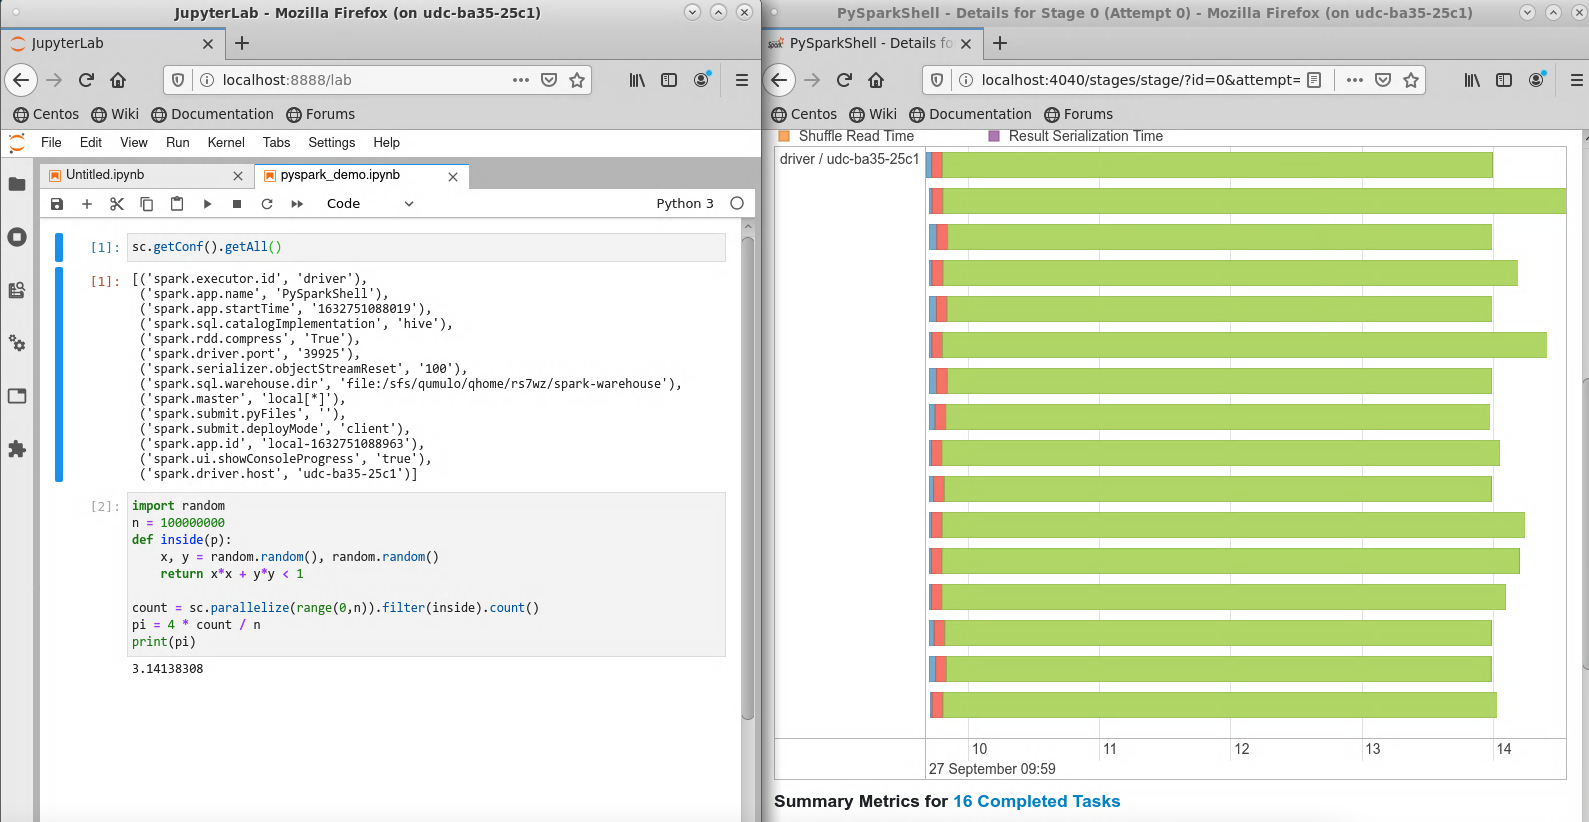
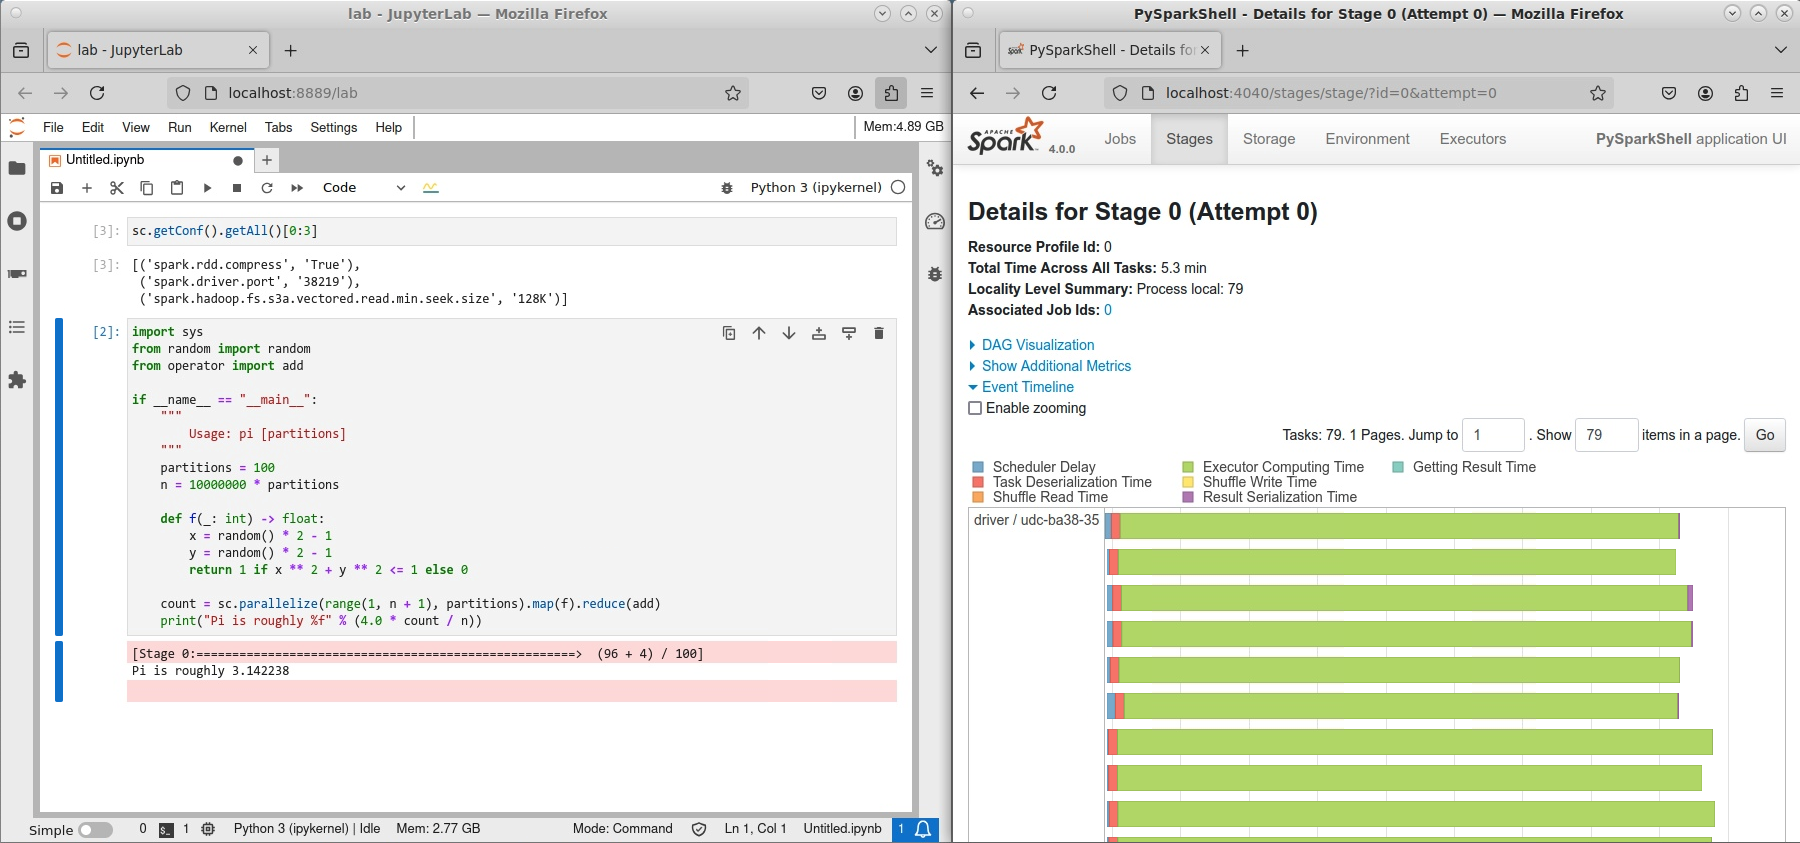
pyspark update docs

diff --git a/content/userinfo/hpc/software/spark.md b/content/userinfo/hpc/software/spark.md
@@ -4,7 +4,7 @@ categories = [
   "HPC",
   "software",
 ]
-date = "2025-07-14T00:00:00-05:00"
+date = "2025-07-18T00:00:00-05:00"
 tags = [
   "chem",
   "multi-core",
@@ -44,7 +44,7 @@ module spider {{% module-firstversion %}}
 
 There are three ways to use Spark interactively:
 1. Shell prompt
-1. Open OnDemand PySpark
+1. Open OnDemand JupyterLab PySpark kernel
 1. Open OnDemand Desktop
 
 If you need the Web UI you must use the third method (OOD Desktop).
@@ -85,9 +85,11 @@ package ‘SparkR’ was built under R version 4.1.0
 
 We recommend loading the closest available version.
 
-## Open OnDemand PySpark
+## Open OnDemand JupyterLab PySpark kernel
 
-Python users can run Spark in a JupyterLab interface via the PySpark Interactive App on [Open OnDemand](/userinfo/hpc/ood).
+Starting from version 4.0.0, the PySpark kernel is available through the JupyterLab Interactive App on [Open OnDemand](/userinfo/hpc/ood).
+
+The PySpark 3.4 Interactive App will be removed in the near future.
 
 ## Open OnDemand Desktop
 
@@ -97,7 +99,11 @@ The URL is displayed upon launching Spark and is of the form `http://udc-xxxx-xx
 
 ### Jupyter notebook/lab
 
-You can redirect `pyspark` to open a Jupyter notebook/lab as follows. The `jupyter` command is provided by the `jupyterlab` module.
+You can redirect `pyspark` to open a Jupyter notebook/lab as follows. First load the modules:
+
+```
+module load spark/4.0.0 jupyterlab
+```
 
 Set two environment variables:
 ```
@@ -111,9 +117,9 @@ Navigate to your working directory and run:
 ```
 pyspark
 ```
-This will start up Jupyter inside a browser automatically. Use the "Python 3" kernel.
+This will start up Jupyter inside a browser automatically. **Select the Python 3 kernel, not PySpark.**
 
-The example below estimates the value of pi in a PySpark session running on 16 cores, with the JupyterLab window on the left and the Spark Web UI event timeline on the right. Note that the `SparkContext` object `sc` is initialized automatically.
+The example below estimates the value of pi, with the JupyterLab window on the left and the Spark Web UI event timeline on the right. Note that the `SparkContext` object `sc` is initialized automatically.
 
 <img src="/images/pyspark.png" style="height:100%;width:100%"></img>
 
